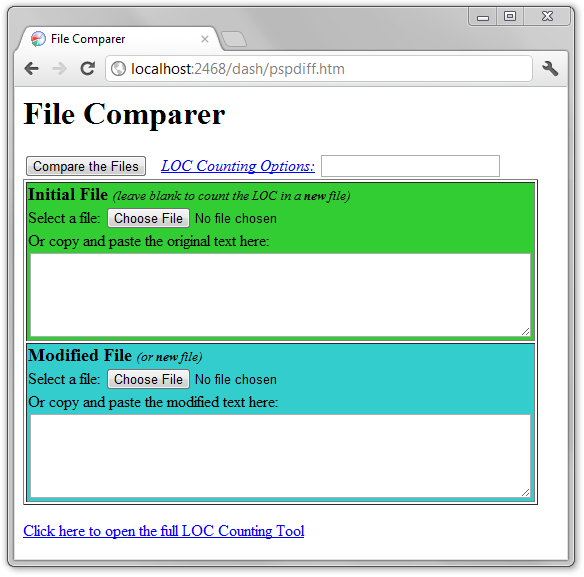
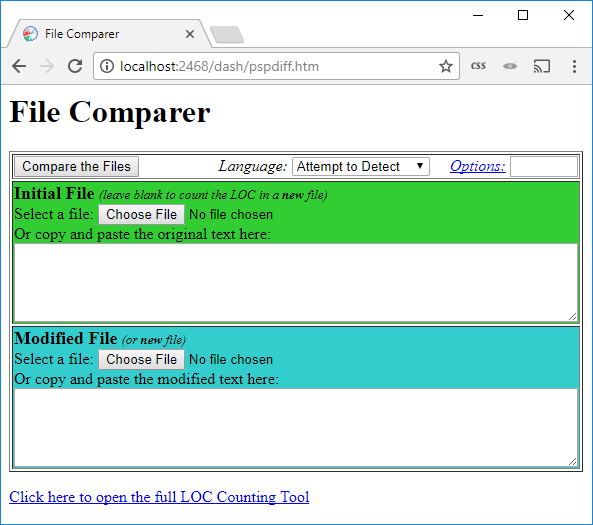
Update help to reflect the Language selector on the HTML LOC counter

diff --git a/Templates/help/Topics/PostmortemAnalysis/LOCCounter.html b/Templates/help/Topics/PostmortemAnalysis/LOCCounter.html
@@ -96,10 +96,9 @@ the page is provided to open the full-featured LOC Counter Tool.</p>
 <p>The web interface will alternatively allow you to copy and paste code
 snippets that should be counted or compared.  When you do this, keep in mind
 that the counter can no longer examine your filenames (e.g.
-"<tt>foo.java</tt>" or "<tt>foo.cpp</tt>"), so it may have a difficult time
-determining which programming language syntax to use for the count.  In that
-case, you may need to enter explicit LOC Counting Options in the field at the
-top of the form.</p>
+"<tt>foo.java</tt>" or "<tt>foo.cpp</tt>"), so it may not be able to guess
+which programming language syntax to use for the count.  In that case, you may
+need to select an option from the "Language" field near the top of the form.</p>
 
 <h2>The LOC Counter Report</h2>
 
